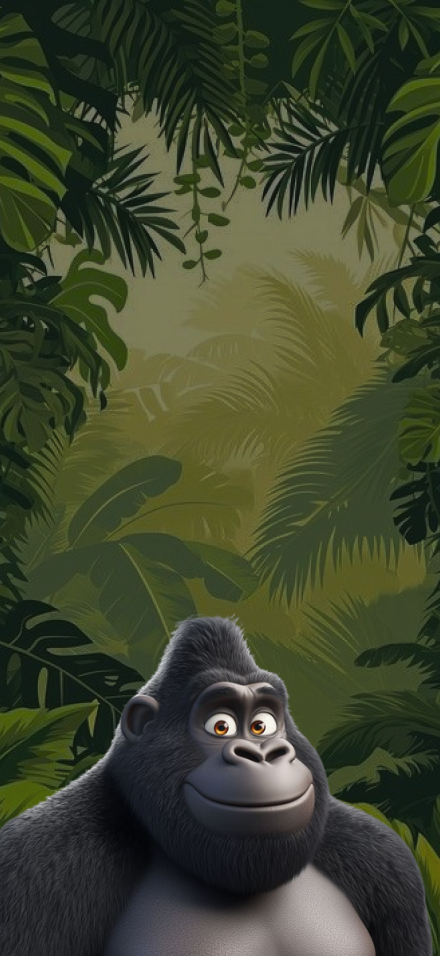
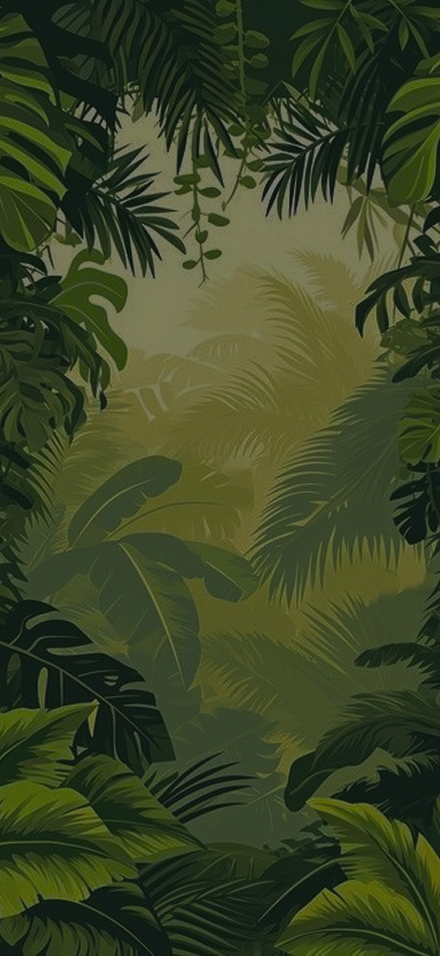
sss

Changed region(s): [[0.0, 0.637, 1.0, 1.0]]

diff --git a/src/screens/loading.tsx b/src/screens/loading.tsx
@@ -36,10 +36,9 @@ export default function Loading({ navigation }: any) {
       <View
         style={styles.container}
       >
-        <Image 
-          source={require('../../assets/png/logo.png')}
-          style={styles.logoImg}
-        />
+        <Text style={styles.logo}>
+          Jungle Puzzle
+        </Text>
         <View style={styles.loadingContainer}>
           <Animated.View
             style={[
@@ -61,6 +60,10 @@ export default function Loading({ navigation }: any) {
           Loading...
         </Text>
       </View>
+        <Image 
+          source={require('../../assets/png/monkey-bg.png')}
+          style={styles.logoImg}
+        />
     </ImageBackground>
   )
 };
@@ -90,7 +93,20 @@ const styles = StyleSheet.create({
     height: '100%',
   },
   logoImg: {
-    width: '85%',
+    width: 300,
     resizeMode: 'contain',
+    height: 300,
+    position: 'absolute',
+    bottom: 0,
+    alignSelf: 'center'
+  },
+  logo: {
+    color: '#D51500',
+    fontWeight: 900,
+    fontSize: 60,
+    textAlign: 'center',
+    textShadowColor: '#FAC93E',
+    textShadowOffset: { width: 0, height: 0 },
+    textShadowRadius: 4
   }
 })

diff --git a/src/tabs/profile.tsx b/src/tabs/profile.tsx
@@ -248,11 +248,11 @@ export default function Profile({ navigation }: any) {
           <TextInput
             style={styles.textInput}
             value={lastName}
-            placeholder='Nickname'
+            placeholder='Last Name'
             onChangeText={(value: string) => setLastName(value)}
             placeholderTextColor={'#F6F6F6'}
           />
-         {/** <View
+          <View
             style={{
               flexDirection: 'row',
               justifyContent: 'space-between',
@@ -297,7 +297,7 @@ export default function Profile({ navigation }: any) {
                 }}
               />
             </View>
-          </View> */}
+          </View>
           <Pressable 
             style={[styles.resetButton, {backgroundColor: !isResetButton ? 'transparent' : '#FAC93E'}]}
             onPressIn={() => setIsResetButton(true)}
